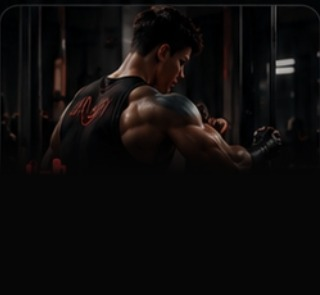
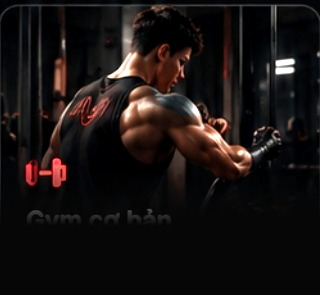
Fitness: sua chu loi o Thong ke, phan loai dich mo cua 4 o chi so
- Man Thong ke hien nguyen van "${stats.streakDays}" thay vi so ngay: dau
  $ bi thoat nham khi soan file nen Dart hieu la chu thuong.
- 4 o chi so truoc day bam o nao cung mo dung 1 man Thong ke nen nhin vao
  khong phan biet duoc. Gio moi o mo man cua chinh no: Calo -> Dinh duong,
  Buoi tap / Tong khoi luong -> Thong ke, Nhip tim -> man do nhip tim.
- Nut "Bat dau tap" (va CA the lon, vung bam rong ra het the) mo Thu vien
  bai tap; bo o "Bai tap" khoi hang Tien ich nhanh nen hang do con dung 4
  o nhu ban thiet ke.
- Anh 3 the giao an: tang sang + giam vung boi den tren chinh file asset,
  va giam lop phu trong app - truoc do nguoi tap gan nhu khong nhin ra.

diff --git a/app/lib/features/fitness/presentation/home/fitness_stats_row.dart b/app/lib/features/fitness/presentation/home/fitness_stats_row.dart
@@ -14,9 +14,19 @@ import 'fitness_home_theme.dart';
 ///  - Tong khoi luong tuan nay: doi sang tan, kem mui ten so voi tuan truoc.
 ///  - Nhip tim: lan do GAN NHAT bang camera (xem heart_rate_service.dart).
 class FitnessStatsRow extends ConsumerWidget {
-  const FitnessStatsRow({super.key, required this.onTap});
+  const FitnessStatsRow({
+    super.key,
+    required this.onOpenNutrition,
+    required this.onOpenStatistics,
+    required this.onOpenHeartRate,
+  });
 
-  final VoidCallback onTap;
+  /// Moi o mo dung man hinh CUA CHINH NO thay vi ca 4 o cung dan toi man
+  /// Thong ke - truoc day bam o nao cung ra 1 man giong het nhau nen nguoi
+  /// dung khong biet 4 o khac nhau cho nao.
+  final VoidCallback onOpenNutrition;
+  final VoidCallback onOpenStatistics;
+  final VoidCallback onOpenHeartRate;
 
   @override
   Widget build(BuildContext context, WidgetRef ref) {
@@ -36,7 +46,6 @@ class FitnessStatsRow extends ConsumerWidget {
         (stats?.previousWeekVolumeKg ?? 0);
 
     return FitnessCard(
-      onTap: onTap,
       radius: FitnessHome.cardRadius,
       padding: const EdgeInsets.symmetric(vertical: 11),
       child: SizedBox(
@@ -52,6 +61,7 @@ class FitnessStatsRow extends ConsumerWidget {
               crossAxisAlignment: CrossAxisAlignment.stretch,
               children: [
                 _StatCell(
+                  onTap: onOpenNutrition,
                   icon: Icons.local_fire_department_rounded,
                   label: ref.tr('fitness_stat_calories'),
                   value: '$kcalToday',
@@ -61,6 +71,7 @@ class FitnessStatsRow extends ConsumerWidget {
                   ),
                 ),
                 _StatCell(
+                  onTap: onOpenStatistics,
                   icon: Icons.fitness_center_rounded,
                   label: ref.tr('fitness_stat_sessions'),
                   value: '$sessionsDone',
@@ -71,6 +82,7 @@ class FitnessStatsRow extends ConsumerWidget {
                   ),
                 ),
                 _StatCell(
+                  onTap: onOpenStatistics,
                   icon: Icons.scale_rounded,
                   label: ref.tr('fitness_stat_volume'),
                   value: volumeTons >= 10
@@ -82,6 +94,7 @@ class FitnessStatsRow extends ConsumerWidget {
                       : null,
                 ),
                 _StatCell(
+                  onTap: onOpenHeartRate,
                   icon: Icons.favorite_rounded,
                   label: ref.tr('fitness_stat_heart_rate'),
                   // Chua do lan nao -> gach ngang. KHONG dat 1 con so mac dinh
@@ -110,6 +123,7 @@ class FitnessStatsRow extends ConsumerWidget {
 
 class _StatCell extends StatelessWidget {
   const _StatCell({
+    required this.onTap,
     required this.icon,
     required this.label,
     required this.value,
@@ -118,6 +132,7 @@ class _StatCell extends StatelessWidget {
     this.trailingIcon,
   });
 
+  final VoidCallback onTap;
   final IconData icon;
   final String label;
   final String value;
@@ -131,42 +146,52 @@ class _StatCell extends StatelessWidget {
   @override
   Widget build(BuildContext context) {
     return Expanded(
-      child: Padding(
-        padding: const EdgeInsets.symmetric(horizontal: 9),
-        child: Column(
-          crossAxisAlignment: CrossAxisAlignment.start,
-          children: [
-            Icon(icon, size: 16, color: FitnessHome.red),
-            const SizedBox(height: 6),
-            FittedBox(
-              fit: BoxFit.scaleDown,
-              alignment: Alignment.centerLeft,
-              child: Text(label, maxLines: 1, style: FitnessHome.statLabel()),
-            ),
-            const SizedBox(height: 1),
-            // FittedBox chu KHONG phai Flexible+ellipsis: khi cot hep, ban
-            // cu cat mat han CON SO (phan quan trong nhat cua the) ma chi
-            // con lai don vi - o day ca cum so + don vi cung thu nho lai.
-            FittedBox(
-              fit: BoxFit.scaleDown,
-              alignment: Alignment.centerLeft,
-              child: Row(
-                crossAxisAlignment: CrossAxisAlignment.baseline,
-                textBaseline: TextBaseline.alphabetic,
-                children: [
-                  Text(value, maxLines: 1, style: FitnessHome.statValue()),
-                  const SizedBox(width: 4),
-                  Text(unit, maxLines: 1, style: FitnessHome.statUnit()),
-                  if (trailingIcon != null) ...[
-                    const SizedBox(width: 3),
-                    Icon(trailingIcon, size: 13, color: FitnessHome.redBright),
-                  ],
-                ],
+      child: GestureDetector(
+        onTap: onTap,
+        // opaque de bam vao khoang trong trong o (khong trung chu/icon) van
+        // an - o chi so rat hep, bam trung dung chu la kho.
+        behavior: HitTestBehavior.opaque,
+        child: Padding(
+          padding: const EdgeInsets.symmetric(horizontal: 9),
+          child: Column(
+            crossAxisAlignment: CrossAxisAlignment.start,
+            children: [
+              Icon(icon, size: 16, color: FitnessHome.red),
+              const SizedBox(height: 6),
+              FittedBox(
+                fit: BoxFit.scaleDown,
+                alignment: Alignment.centerLeft,
+                child: Text(label, maxLines: 1, style: FitnessHome.statLabel()),
               ),
-            ),
-            const Spacer(),
-            ?indicator,
-          ],
+              const SizedBox(height: 1),
+              // FittedBox chu KHONG phai Flexible+ellipsis: khi cot hep, ban
+              // cu cat mat han CON SO (phan quan trong nhat cua the) ma chi
+              // con lai don vi - o day ca cum so + don vi cung thu nho lai.
+              FittedBox(
+                fit: BoxFit.scaleDown,
+                alignment: Alignment.centerLeft,
+                child: Row(
+                  crossAxisAlignment: CrossAxisAlignment.baseline,
+                  textBaseline: TextBaseline.alphabetic,
+                  children: [
+                    Text(value, maxLines: 1, style: FitnessHome.statValue()),
+                    const SizedBox(width: 4),
+                    Text(unit, maxLines: 1, style: FitnessHome.statUnit()),
+                    if (trailingIcon != null) ...[
+                      const SizedBox(width: 3),
+                      Icon(
+                        trailingIcon,
+                        size: 13,
+                        color: FitnessHome.redBright,
+                      ),
+                    ],
+                  ],
+                ),
+              ),
+              const Spacer(),
+              ?indicator,
+            ],
+          ),
         ),
       ),
     );

diff --git a/app/lib/features/fitness/presentation/home/fitness_hero_card.dart b/app/lib/features/fitness/presentation/home/fitness_hero_card.dart
@@ -29,65 +29,72 @@ class FitnessHeroCard extends StatelessWidget {
 
   @override
   Widget build(BuildContext context) {
-    return SizedBox(
-      height: FitnessHome.heroHeight,
-      child: ClipRRect(
-        borderRadius: BorderRadius.circular(FitnessHome.heroRadius),
-        child: Stack(
-          fit: StackFit.expand,
-          children: [
-            const ColoredBox(color: Color(0xFF080808)),
-            Image.asset('assets/fitness/home/hero.jpg', fit: BoxFit.cover),
-            // Lop phu rat nhe: nua trai cua anh da den dac san nen chi can
-            // phu them mot chut cho chac chan doc duoc chu, khong lam toi
-            // ca buc anh nhu ban dung anh phong gym truoc day.
-            const DecoratedBox(
-              decoration: BoxDecoration(
-                gradient: LinearGradient(
-                  begin: Alignment.centerLeft,
-                  end: Alignment.centerRight,
-                  stops: [0.0, 0.5, 1],
-                  colors: [
-                    Color(0x99050505),
-                    Color(0x33050505),
-                    Color(0x00050505),
+    // CA THE deu bam duoc chu khong rieng nut - vung bam cua nut nho hon
+    // nhieu so voi khoang trong quanh no, bam tay hay truot. Nut ben trong
+    // van giu hieu ung bam rieng de nhin ra ngay day la cho bam chinh.
+    return GestureDetector(
+      onTap: onStart,
+      behavior: HitTestBehavior.opaque,
+      child: SizedBox(
+        height: FitnessHome.heroHeight,
+        child: ClipRRect(
+          borderRadius: BorderRadius.circular(FitnessHome.heroRadius),
+          child: Stack(
+            fit: StackFit.expand,
+            children: [
+              const ColoredBox(color: Color(0xFF080808)),
+              Image.asset('assets/fitness/home/hero.jpg', fit: BoxFit.cover),
+              // Lop phu rat nhe: nua trai cua anh da den dac san nen chi can
+              // phu them mot chut cho chac chan doc duoc chu, khong lam toi
+              // ca buc anh nhu ban dung anh phong gym truoc day.
+              const DecoratedBox(
+                decoration: BoxDecoration(
+                  gradient: LinearGradient(
+                    begin: Alignment.centerLeft,
+                    end: Alignment.centerRight,
+                    stops: [0.0, 0.5, 1],
+                    colors: [
+                      Color(0x99050505),
+                      Color(0x33050505),
+                      Color(0x00050505),
+                    ],
+                  ),
+                ),
+                child: SizedBox.expand(),
+              ),
+              Padding(
+                padding: const EdgeInsets.fromLTRB(14, 11, 14, 9),
+                child: Column(
+                  crossAxisAlignment: CrossAxisAlignment.start,
+                  mainAxisSize: MainAxisSize.min,
+                  children: [
+                    Text(
+                      kicker.toUpperCase(),
+                      style: AppTextStyles.body(
+                        size: 9,
+                        weight: FontWeight.w800,
+                        color: FitnessHome.red,
+                      ).copyWith(letterSpacing: 1.2),
+                    ),
+                    const SizedBox(height: 6),
+                    Text(
+                      title,
+                      style: AppTextStyles.heading(size: 17.5)
+                          .copyWith(height: 1.24, letterSpacing: -0.3),
+                    ),
+                    const SizedBox(height: 6),
+                    Text(
+                      subtitle,
+                      style: FitnessHome.bodySecondary(size: 10.5)
+                          .copyWith(height: 1.4),
+                    ),
+                    const SizedBox(height: 6),
+                    _StartButton(label: ctaLabel, onTap: onStart),
                   ],
                 ),
               ),
-              child: SizedBox.expand(),
-            ),
-            Padding(
-              padding: const EdgeInsets.fromLTRB(14, 11, 14, 9),
-              child: Column(
-                crossAxisAlignment: CrossAxisAlignment.start,
-                mainAxisSize: MainAxisSize.min,
-                children: [
-                  Text(
-                    kicker.toUpperCase(),
-                    style: AppTextStyles.body(
-                      size: 9,
-                      weight: FontWeight.w800,
-                      color: FitnessHome.red,
-                    ).copyWith(letterSpacing: 1.2),
-                  ),
-                  const SizedBox(height: 6),
-                  Text(
-                    title,
-                    style: AppTextStyles.heading(size: 17.5)
-                        .copyWith(height: 1.24, letterSpacing: -0.3),
-                  ),
-                  const SizedBox(height: 6),
-                  Text(
-                    subtitle,
-                    style: FitnessHome.bodySecondary(size: 10.5)
-                        .copyWith(height: 1.4),
-                  ),
-                  const SizedBox(height: 6),
-                  _StartButton(label: ctaLabel, onTap: onStart),
-                ],
-              ),
-            ),
-          ],
+            ],
+          ),
         ),
       ),
     );

diff --git a/app/lib/features/fitness/presentation/fitness_home_screen.dart b/app/lib/features/fitness/presentation/fitness_home_screen.dart
@@ -87,15 +87,25 @@ class FitnessHomeScreen extends ConsumerWidget {
                     title: ref.tr('fitness_hero_title'),
                     subtitle: ref.tr('fitness_hero_subtitle'),
                     ctaLabel: ref.tr('fitness_hero_cta'),
-                    onStart: () => _openTodayWorkout(context, ref),
+                    // "Bat dau tap" mo thang Thu vien bai tap - day la loi
+                    // vao DUY NHAT cua thu vien sau khi bo o "Bai tap" o
+                    // hang Tien ich nhanh. Buoi tap theo giao an van mo tu
+                    // the "Ke hoach hom nay" ngay ben duoi.
+                    onStart: () => openAppPopup(
+                      context,
+                      const MuscleGroupCategoriesScreen(),
+                    ),
                   ),
                   const SizedBox(height: 10),
-                  // Bam vao the chi so mo man Thong ke - day la loi vao DUY
-                  // NHAT cua Thong ke; cau dong luc ben duoi khong con mo
-                  // cung man do nua (truoc day trung lap).
                   FitnessStatsRow(
-                    onTap: () =>
+                    onOpenNutrition: () =>
+                        openAppPopup(context, const NutritionScreen()),
+                    onOpenStatistics: () =>
                         openAppPopup(context, const FitnessStatisticsScreen()),
+                    onOpenHeartRate: () async {
+                      await openAppPopup(context, const HeartRateScreen());
+                      ref.invalidate(heartRateHistoryProvider);
+                    },
                   ),
                   const SizedBox(height: 10),
                   FitnessTodayCard(
@@ -121,20 +131,13 @@ class FitnessHomeScreen extends ConsumerWidget {
                     title: ref.tr('fitness_quick_actions_title'),
                   ),
                   const SizedBox(height: 8),
-                  // 5 o vua khit 1 hang, KHONG cuon ngang - ban truoc giau
-                  // mat 2 tinh nang (Thu vien bai tap, Cong dong) o phan
-                  // phai vuot sang moi thay. O "Lich tap" cu da bo vi no mo
-                  // dung man ma khu "Tap luyen" ngay ben tren da mo.
+                  // 4 o vua khit 1 hang, KHONG cuon ngang (ban dau tien
+                  // cuon duoc nen o thu 5 tro di bi khuat han). Hai o da bo:
+                  // "Lich tap" (mo dung man ma khu "Tap luyen" ngay tren da
+                  // mo) va "Bai tap" (da chuyen thanh nut "Bat dau tap" o
+                  // the lon dau man).
                   FitnessQuickActions(
                     actions: [
-                      FitnessQuickAction(
-                        icon: Icons.fitness_center_rounded,
-                        label: ref.tr('fitness_quick_exercises'),
-                        onTap: () => openAppPopup(
-                          context,
-                          const MuscleGroupCategoriesScreen(),
-                        ),
-                      ),
                       FitnessQuickAction(
                         icon: Icons.restaurant_rounded,
                         label: ref.tr('fitness_nutrition_title'),

diff --git a/app/lib/features/fitness/presentation/fitness_statistics_screen.dart b/app/lib/features/fitness/presentation/fitness_statistics_screen.dart
@@ -392,7 +392,7 @@ class _StreakCard extends ConsumerWidget {
     } else if (stats.streakDays >= 3) {
       tip = ref
           .tr('fitness_dashboard_tip_streak_praise')
-          .replaceFirst('{n}', '\${stats.streakDays}');
+          .replaceFirst('{n}', '${stats.streakDays}');
     } else {
       final dayOfYear = DateTime.now()
           .difference(DateTime(DateTime.now().year))
@@ -417,7 +417,7 @@ class _StreakCard extends ConsumerWidget {
             ),
             alignment: Alignment.center,
             child: Text(
-              '\${stats.streakDays}',
+              '${stats.streakDays}',
               style: AppTextStyles.heading(size: 20),
             ),
           ),

diff --git a/app/lib/features/fitness/presentation/home/fitness_program_carousel.dart b/app/lib/features/fitness/presentation/home/fitness_program_carousel.dart
@@ -118,11 +118,11 @@ class _ProgramCard extends StatelessWidget {
                 gradient: LinearGradient(
                   begin: Alignment.topCenter,
                   end: Alignment.bottomCenter,
-                  stops: [0, 0.46, 1],
+                  stops: [0, 0.6, 1],
                   colors: [
-                    Color(0x9E050505),
-                    Color(0xD6050505),
-                    Color(0xFF060606),
+                    Color(0x00050505),
+                    Color(0x26050505),
+                    Color(0x8C060606),
                   ],
                 ),
               ),

diff --git a/app/lib/core/i18n/app_strings.dart b/app/lib/core/i18n/app_strings.dart
@@ -4299,10 +4299,6 @@ class AppStrings {
       AppLanguage.vi: 'Xem tất cả',
       AppLanguage.en: 'See all',
     },
-    'fitness_quick_exercises': {
-      AppLanguage.vi: 'Bài tập',
-      AppLanguage.en: 'Exercises',
-    },
     'fitness_quick_actions_title': {
       AppLanguage.vi: 'Tiện ích nhanh',
       AppLanguage.en: 'Quick actions',
